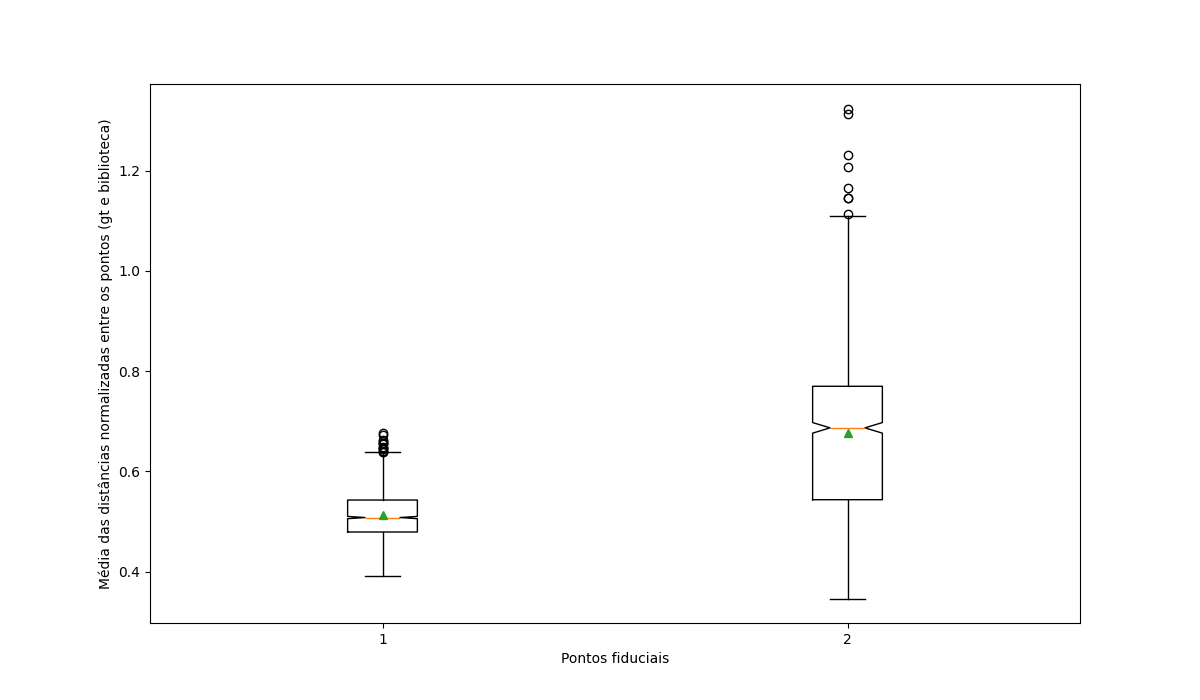
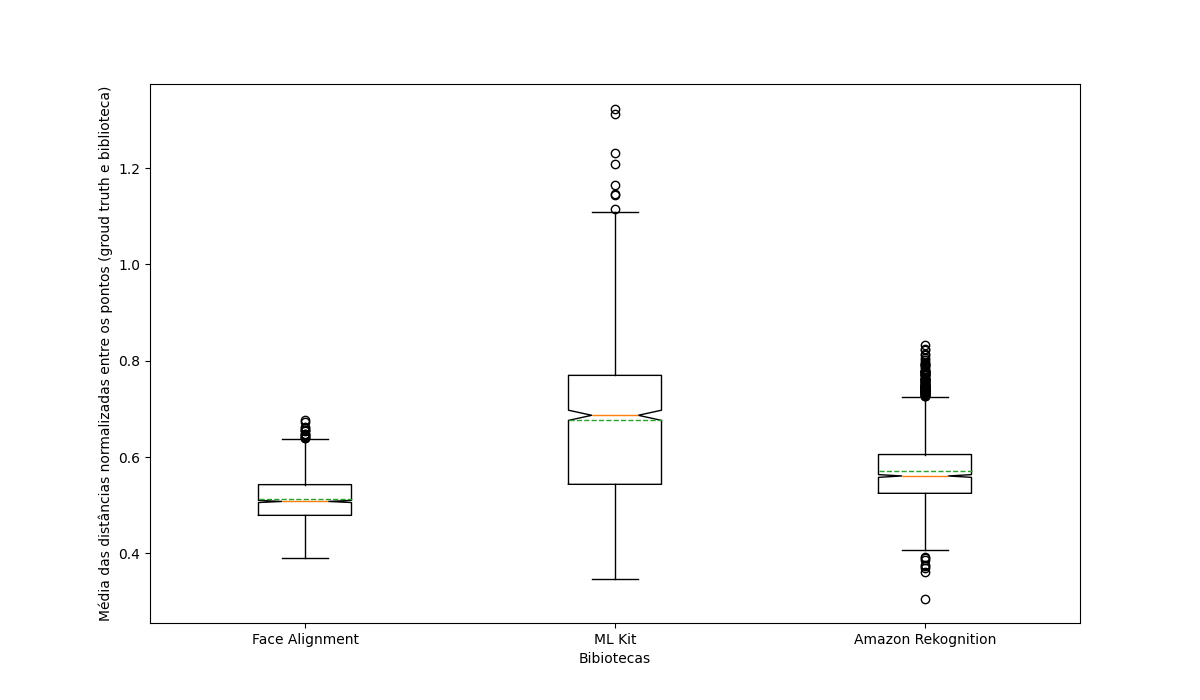
feat: adding amz reck

diff --git a/src/creates_graph.py b/src/creates_graph.py
@@ -3,10 +3,12 @@ import numpy as np
 import matplotlib.pyplot as plt
 import os
 
-def print_graph(means, graph_name, positions=None):
+file_library_name = {"cfp_fa_result.txt": "Face Alignment", "cfp_mlkit_result.txt": "ML Kit", "cfp_amazon_result.txt": "Amazon Rekognition"}
+
+def print_graph(means, graph_name, positions=None, x_label=None):
     plt.figure(figsize=(12, 7))
     plt.boxplot(means, positions, showmeans=True, meanline=True, tick_labels=positions)
-    plt.xlabel('Bibiotecas')
+    plt.xlabel(x_label)
     plt.ylabel('Média das distâncias normalizadas entre os pontos (groud truth e biblioteca)')
     plt.savefig(f'{graph_name}.png')
 
@@ -64,10 +66,11 @@ def all_distances_boxplot():
                 soma_key = int( soma/100 + 1) * 100
             distances_tools_list.append(distance_means)
             
-    print_graph(distances_tools_list, "distances_4", ["Face Alignment", "ML Kit"])
+    print_graph(distances_tools_list, "distances_5", ["Face Alignment", "ML Kit", "Amazon Rekognition"], "Bibliotecas")
 
 def distances_per_point(file_path):
     lines = get_file_lines(file_path)
+    #keys = [4, 7, 9, 10, 11, 12, 13, 16, 17, 21, 24, 25, 26]
     keys = [1, 2, 3, 4, 5, 6, 7, 8, 9, 10, 11, 12, 13, 15, 17, 18, 19, 20, 21, 22, 25, 28, 26, 29]
     point_distances_list = []
     for line in lines:
@@ -82,7 +85,8 @@ def distances_per_point(file_path):
                 point_distances_list.append([])
             point_distances_list[i].append(distance)
 
-    print_graph(point_distances_list, "points_distances", keys)
+    label = get_library_from_path(file_path)
+    print_graph(point_distances_list, f"points_distances_{label}", keys, "Points")
 
 def distances_per_resolution_area(file_path):
     resolution_distances = {}
@@ -112,7 +116,8 @@ def distances_per_resolution_area(file_path):
     print(f"Resolution min: {min(resolution_area_list)}")
     print(f"Resolution max: {max(resolution_area_list)}")
     print(f"Resolution distances: {resolution_distances}")
-    print_graph(list(resolution_distances.values()), "resolutions_distances_new", list(resolution_distances.keys()))
+    label = get_library_from_path(file_path)
+    print_graph(list(resolution_distances.values()), f"resolutions_distances_new_{label}", list(resolution_distances.keys()), "Resolutions")
 
 def get_rel_interval(file_path):
     resolution_area_list = []
@@ -139,7 +144,7 @@ def accuracy_face_per_resolution():
         
         lines = get_file_lines(file_path)
 
-        resolution_distances = {}
+        resolution_distance_list = {}
         for line in lines:
             if line == '':
                 continue
@@ -149,20 +154,21 @@ def accuracy_face_per_resolution():
             face_detected = get_face_detected(line)
             area_key = int( resolution_area/200000 + 1) * 200000
             
-            if area_key in resolution_distances:
-                resolution_distances[area_key].append(face_detected)
+            if area_key in resolution_distance_list:
+                resolution_distance_list[area_key].append(face_detected)
             else:
-                resolution_distances[area_key] = [face_detected]
+                resolution_distance_list[area_key] = [face_detected]
 
         arrei = []
-        for teste in list(resolution_distances.values()):
-            count_truth = teste.count('True')
-            arrei.append( round(count_truth * 100 / len(teste), 2))
+        for resolution_distance in list(resolution_distance_list.values()):
+            count_truth = resolution_distance.count('True')
+            arrei.append( round(count_truth * 100 / len(resolution_distance), 2))
 
-        x_keys = sorted(list(resolution_distances.keys()))
+        x_keys = sorted(list(resolution_distance_list.keys()))
         #plt.plot(list(map(lambda x: str(int(x/10000)), x_keys)), arrei, label=file_path, marker='o')
-        plt.plot(x_keys, arrei, label=file_path, marker='o')
-    blabla = list(map(lambda x: str(int(x/10000)), x_keys))
+        label = get_library_from_path(file_path)
+        plt.plot(x_keys, arrei, label=label, marker='o')
+    
     #plt.xticks(range(len(blabla)), blabla)
     plt.xticks(x_keys)
     #plt.xticks(blabla)
@@ -173,6 +179,12 @@ def accuracy_face_per_resolution():
     # Mostra o gráfico
     #plt.show()
     plt.savefig('accuracy_face.png')
+
+def get_library_from_path(file_path):
+    file_name = file_path[file_path.find("/") + 1:]
+    label = file_library_name[file_name]
+    return label
+
 
 def run():
     resolution_distances = {}
@@ -205,8 +217,8 @@ def run():
 
 file_path = "output/cfp_fa_result.txt"
 
-#distances_per_resolution_area(file_path)
-#distances_per_point(file_path)
+distances_per_resolution_area(file_path)
+distances_per_point(file_path)
 #all_distances_boxplot()
-accuracy_face_per_resolution()
+#accuracy_face_per_resolution()
 #get_match_result("name: 083\profile\02.jpg, resolution: 1336x1220, color: RGB, face detected: Multiple, distances: [], mean: 0")
